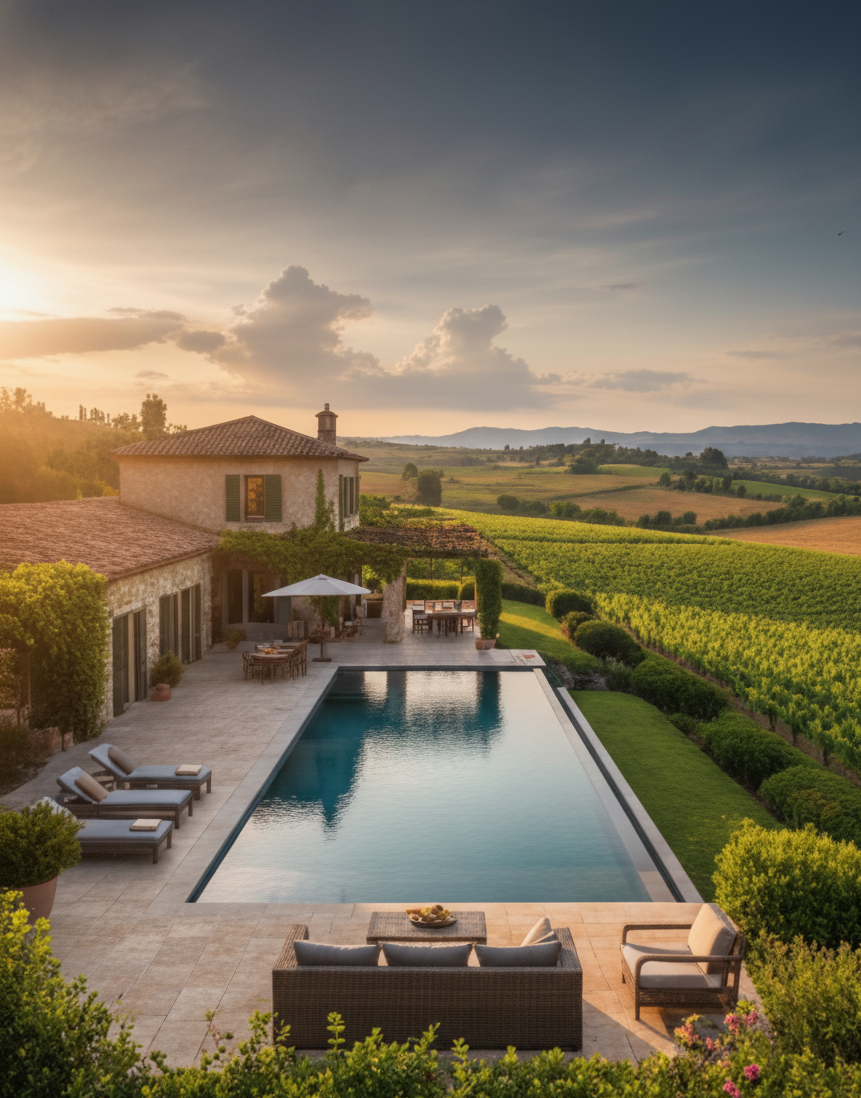
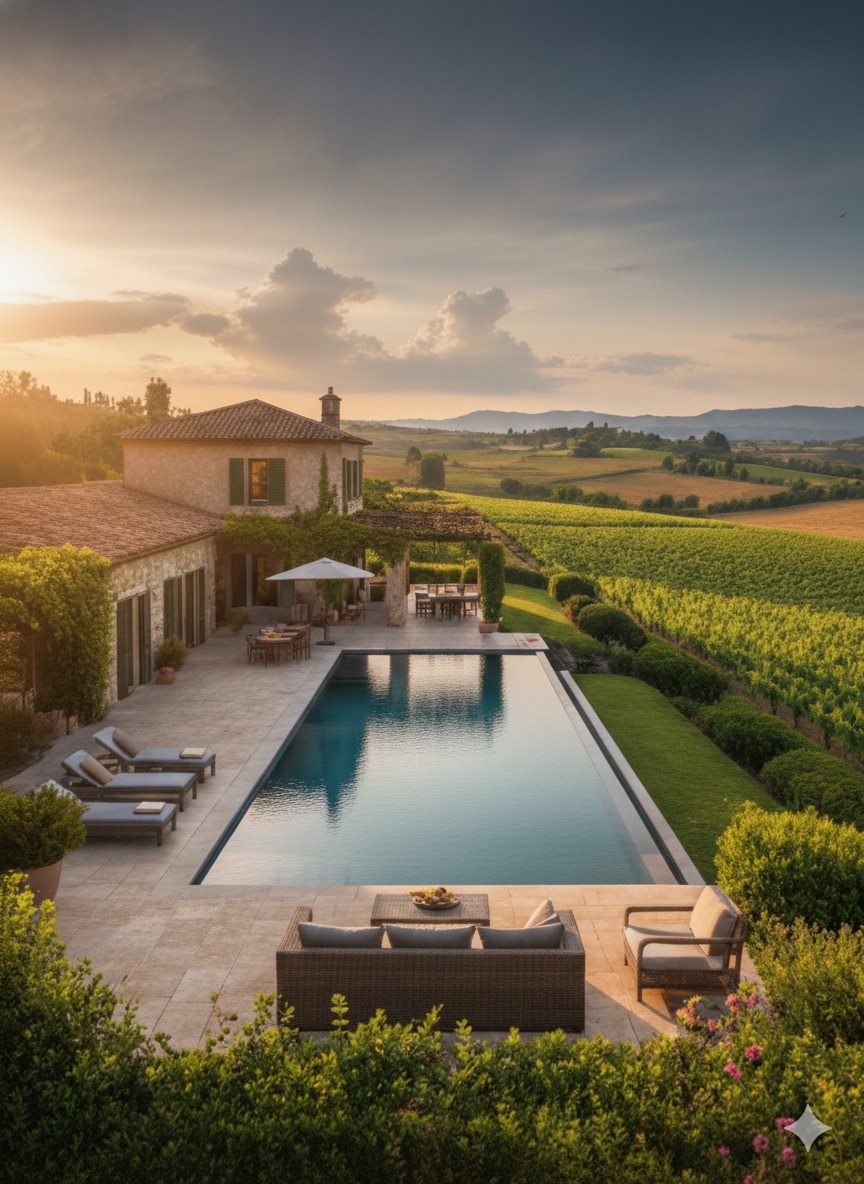
image added 8k

diff --git a/SCREEN_SETUP_GUIDE.md b/SCREEN_SETUP_GUIDE.md
@@ -1,0 +1,181 @@
+# Reroute App - Main Screens Setup Guide
+
+## ✅ Completed Tasks
+
+I've successfully updated your three main onboarding screens:
+
+### 1. **WelcomeScreen.tsx** (Screen 1)
+- Beautiful farmhouse background with pool
+- "WELCOME TO REROUTE" and "PREMIER ESCAPES" text
+- "Find your perfect retreat" tagline
+- "Explore Unique Stays" golden button
+- "Already have an account? Sign in" link
+
+### 2. **LoginScreen.tsx** (Screen 2)
+- Golden user icon at top
+- "Welcome to Reroute" title
+- "Your journey to tranquility begins" subtitle
+- Google sign-in button with icon
+- "Continue with email" option
+- "Don't have an account? Sign up" link
+- Back button
+
+### 3. **RoleSelectionScreen.tsx** (Screen 3)
+- Golden user icon with question mark badge
+- "How you want to use Reroute?" title
+- Two bordered cards:
+  - **User** - with compass icon
+  - **Become a Host** - with home icon
+- Back button
+
+## 📸 Adding the Background Image
+
+### Option 1: Download from Free Stock Sites
+
+**Recommended Sites:**
+1. **Unsplash** - https://unsplash.com/s/photos/luxury-villa-pool-sunset
+2. **Pexels** - https://www.pexels.com/search/farmhouse%20pool/
+3. **Pixabay** - https://pixabay.com/images/search/villa%20pool%20sunset/
+
+**Search Terms to Use:**
+- "luxury villa pool sunset"
+- "farmhouse pool countryside"
+- "Tuscan villa infinity pool"
+- "Mediterranean villa sunset"
+
+### Option 2: Use AI Image Generation
+
+You can use:
+- **Leonardo.ai** - Free tier available
+- **Midjourney** - If you have access
+- **DALL-E** - Through ChatGPT Plus
+
+**Prompt to use:**
+```
+"Luxury Tuscan farmhouse villa with infinity pool at golden hour sunset, 
+rolling vineyard hills, countryside landscape, professional photography, 
+serene peaceful atmosphere, high quality"
+```
+
+## 🔧 Installation Steps
+
+### Step 1: Add the Background Image
+
+1. Download a suitable image (recommended size: 1920x1080 or higher)
+2. Rename it to `farmhouse-bg.jpg`
+3. Place it in: `C:\Users\shikhar pulluri\Desktop\reroute\assets\farmhouse-bg.jpg`
+
+### Step 2: Verify File Location
+
+Make sure your file structure looks like this:
+```
+reroute/
+├── assets/
+│   ├── farmhouse-bg.jpg  ← Add this file
+│   ├── icon.png
+│   ├── splash-icon.png
+│   └── ...
+└── screens/
+    ├── WelcomeScreen.tsx  ← Updated
+    ├── LoginScreen.tsx    ← Updated
+    └── RoleSelectionScreen.tsx  ← Updated
+```
+
+### Step 3: Test the App
+
+1. Open terminal in the reroute directory
+2. Run: `npm start` or `expo start`
+3. Test on your device/emulator
+
+## 🎨 Color Scheme Used
+
+- **Primary Gold**: `#D4AF37`
+- **White**: `#FFFFFF`
+- **Black**: `#000000`
+- **Light Gray**: `#F5F5F5`
+- **Text Gray**: `#666666`
+- **Dark Text Gray**: `#999999`
+
+## 🔄 Navigation Flow
+
+```
+Welcome Screen → Login Screen → Role Selection → (User Home or Owner Dashboard)
+```
+
+## 📱 Screen Features
+
+### WelcomeScreen
+- ✅ Full-screen background image
+- ✅ Gradient overlay for text readability
+- ✅ Golden branding text at top
+- ✅ White content card at bottom
+- ✅ Call-to-action button
+- ✅ Sign-in link
+
+### LoginScreen
+- ✅ Clean minimal design
+- ✅ Google authentication ready
+- ✅ Email option placeholder
+- ✅ Sign-up link
+- ✅ Back navigation
+
+### RoleSelectionScreen
+- ✅ User role selection
+- ✅ Host role selection
+- ✅ Loading states
+- ✅ Firebase integration
+- ✅ Local storage fallback
+
+## 🛠️ Troubleshooting
+
+### If image doesn't show:
+1. Check file path: `require('../assets/farmhouse-bg.jpg')`
+2. Verify file exists in assets folder
+3. Try clearing Metro bundler cache: `expo start -c`
+4. Ensure image format is .jpg or .png
+
+### If Google Sign-In doesn't work:
+1. Check `useGoogleAuth.ts` configuration
+2. Verify Firebase config in `firebaseConfig.ts`
+3. Ensure Google Sign-In is enabled in Firebase Console
+
+### If role selection doesn't save:
+1. Check Firebase Firestore rules
+2. Verify user authentication state
+3. Check console logs for errors
+
+## 📝 Next Steps
+
+1. **Add the background image** to assets folder
+2. **Test the screens** on your device
+3. **Customize colors** if needed (in StyleSheet)
+4. **Configure Firebase** authentication
+5. **Test user flow** end-to-end
+
+## 💡 Optional Enhancements
+
+- Add loading animations
+- Add screen transitions
+- Add form validation for email login
+- Add "Remember me" functionality
+- Add biometric authentication
+- Add dark mode support
+
+## 🎯 Key Differences from Original Screens
+
+Your original screens had:
+- Gradient backgrounds with decorative circles
+- Glass-morphism effects
+- Different color scheme (teal/green)
+
+New screens have:
+- Photo background (Screen 1)
+- Minimal clean design (Screens 2 & 3)
+- Gold accent color (#D4AF37)
+- Simpler, more elegant UI
+
+---
+
+**Need help?** Check the console logs or reach out for support!
+
+Happy coding! 🚀